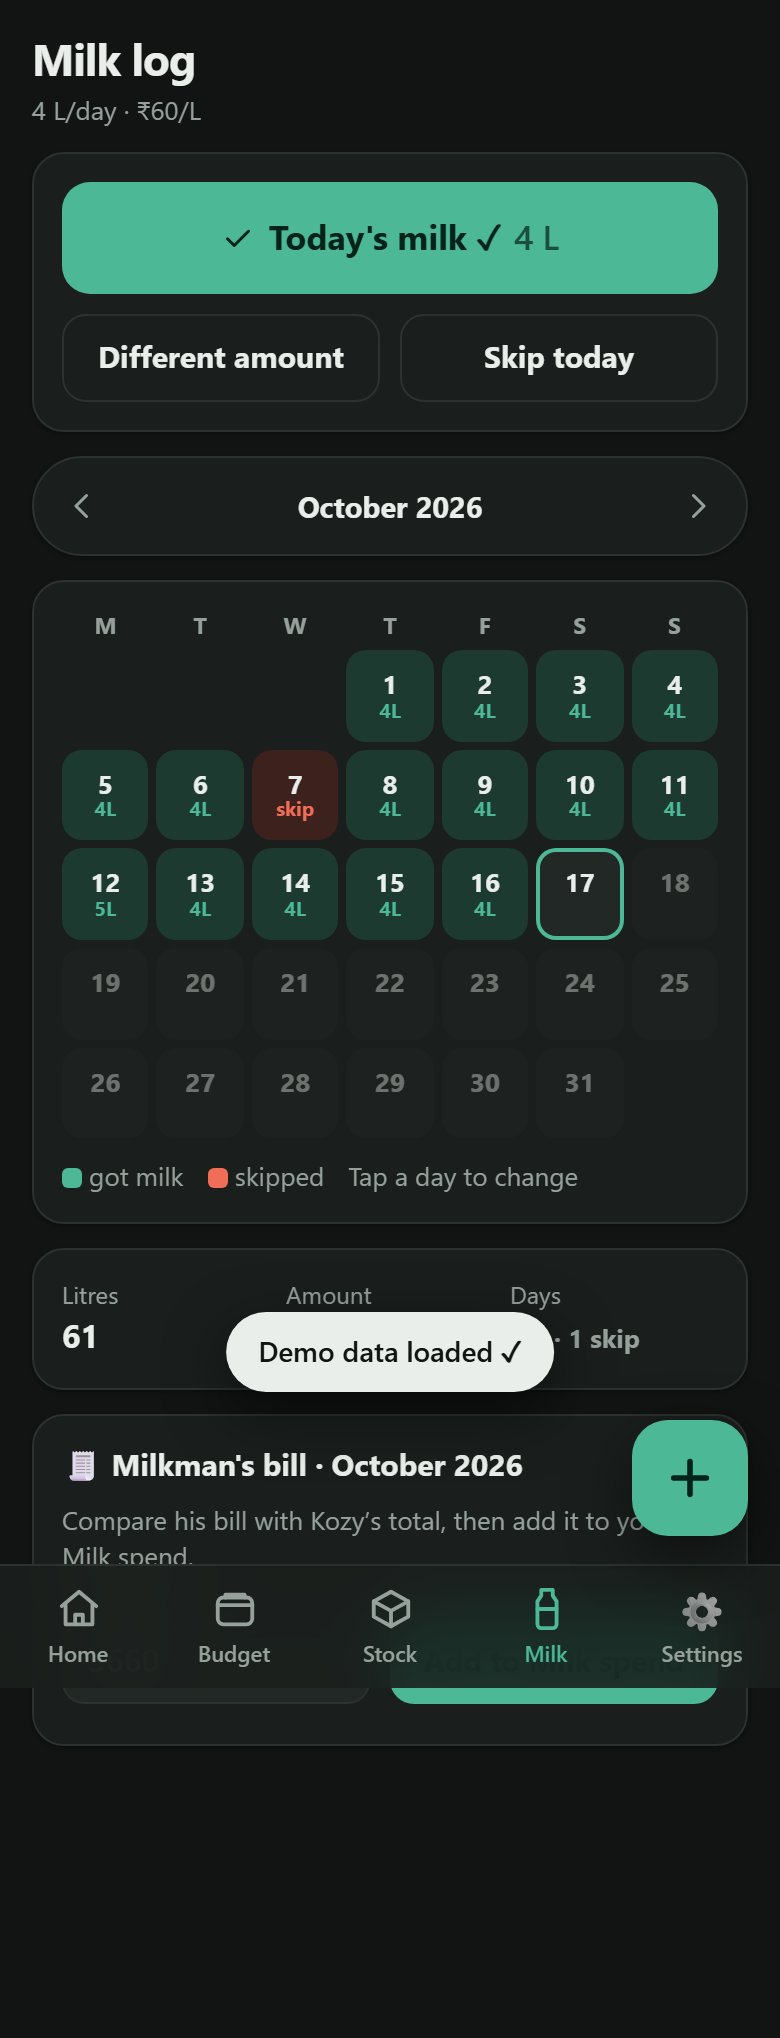
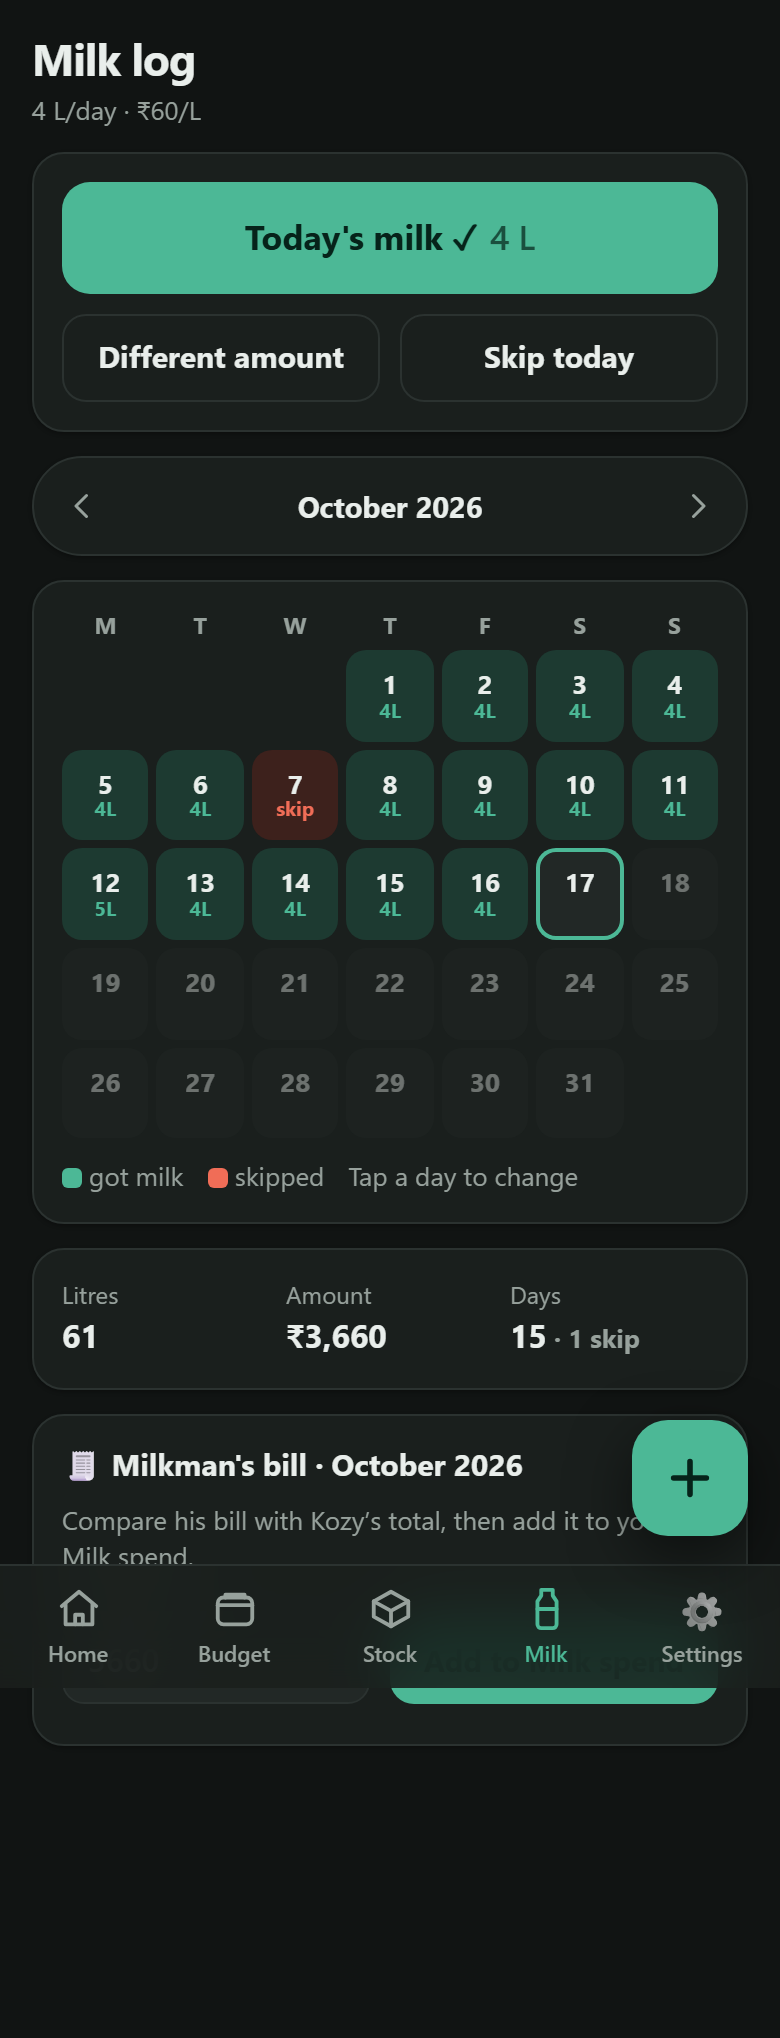
Polish stock sort + labels, friendlier Firebase errors, rules, decisions and morning report

Changed region(s): [[0.2769, 0.6183, 0.7077, 0.6801], [0.3077, 0.0927, 0.7077, 0.1237]]

diff --git a/js/views/stock.js b/js/views/stock.js
@@ -55,7 +55,9 @@ export function render() {
   const all = stock.allAnalyzed();
   const shop = stock.shoppingList();
   const counts = { all: all.length, low: all.filter((a) => a.status === 'low').length, finished: all.filter((a) => a.status === 'finished').length };
-  const shown = state.filter === 'all' ? all : all.filter((a) => a.status === state.filter);
+  const rank = { finished: 0, low: 1, ok: 2, none: 3 };
+  const shown = (state.filter === 'all' ? all : all.filter((a) => a.status === state.filter))
+    .sort((x, y) => rank[x.status] - rank[y.status]);
 
   return `
   ${header('Kitchen stock', `${counts.low} running low · ${counts.finished} finished`,
@@ -70,7 +72,7 @@ export function render() {
     </div>
     ${shop.length ? `<ul class="shop-list">${shop.map((a) => `<li data-shop="${a.item.id}">
         <span>${esc(a.item.en)} <span class="hi">/ ${esc(a.item.hi)}</span></span>
-        <span class="chip ${a.status === 'finished' ? 'over' : 'warn'}">${a.status === 'finished' ? 'Finished' : `${a.daysLeft}d left`}</span>
+        <span class="chip ${a.status === 'finished' ? 'over' : 'warn'}">${a.status === 'finished' ? 'Finished' : a.daysLeft === 0 ? 'Today' : `${a.daysLeft}d left`}</span>
       </li>`).join('')}</ul>` : '<p class="empty">Nothing to buy in the next 7 days 🎉</p>'}
   </section>
 

diff --git a/js/app.js b/js/app.js
@@ -66,7 +66,17 @@ async function start() {
 
 start().catch((e) => {
   console.error(e);
-  document.getElementById('view').innerHTML = `<div class="card"><h2>Kozy could not start</h2><p class="muted">${String(e?.message || e)}</p></div>`;
+  const denied = e?.code === 'permission-denied';
+  const msg = denied
+    ? 'This account cannot open the family data. Sign in with one of the two family emails. If you just made an email + password account, open the verify link in your inbox first, then reload.'
+    : String(e?.message || e);
+  document.getElementById('view').innerHTML = `<div class="card stack"><h2>Kozy could not start</h2><p class="muted">${msg.replace(/</g, '&lt;')}</p>
+    <button class="btn primary" onclick="location.reload()">Reload</button>
+    ${denied ? '<button class="btn ghost" id="kz-signout">Sign out</button>' : ''}</div>`;
+  document.getElementById('kz-signout')?.addEventListener('click', async () => {
+    await store.getAdapter()?.signOut?.();
+    location.reload();
+  });
 });
 
 if ('serviceWorker' in navigator && location.protocol !== 'file:') {

diff --git a/js/views/milk.js b/js/views/milk.js
@@ -63,7 +63,7 @@ export function render() {
         <div><p class="label">Today</p><p class="big2">${td.skip ? 'Skipped' : `✓ ${number(td.litres)} L`}</p></div>
         <button class="btn ghost small" data-act="edit-day" data-day="${t}">${icon('edit')} Change</button>
       </div>` : `
-      <button class="btn primary huge" data-act="tick">${icon('check')} Today's milk ✓ <span class="muted-ink">${number(s.litres)} L</span></button>
+      <button class="btn primary huge" data-act="tick">Today's milk ✓ <span class="muted-ink">${number(s.litres)} L</span></button>
       <div class="row gap">
         <button class="btn ghost grow" data-act="edit-day" data-day="${t}">Different amount</button>
         <button class="btn ghost grow" data-act="skip-today">Skip today</button>

diff --git a/js/logic/demo.js b/js/logic/demo.js
@@ -63,7 +63,7 @@ export function buildDemo(t = today()) {
       const date = d(day);
       const dow = parse(date).getDay();
       // Office travel on weekdays
-      if (dow >= 1 && dow <= 5) entry(date, 'travel', pick([320, 340, 360, 380]), pick(['Bus + auto', 'Auto', 'Bus to office']), pick(['UPI', 'Cash']));
+      if (dow >= 1 && dow <= 5) entry(date, 'travel', pick([180, 200, 220, 240]), pick(['Bus + auto', 'Auto', 'Bus to office']), pick(['UPI', 'Cash']));
       // Vegetables every ~2 days
       if (day % 2 === 0) entry(date, 'grocery', pick([120, 160, 180, 220, 260]), pick(['Sabzi', 'Sabzi + fruits', 'Tamatar, pyaz', 'Fruits']), pick(['UPI', 'Cash']));
       // Milk: 4 L most days, skip a couple, 5 L on a guest day

diff --git a/js/logic/stock.js b/js/logic/stock.js
@@ -115,7 +115,7 @@ export function shoppingList() {
 export function shoppingText(list = shoppingList()) {
   const lines = list.map((a) => {
     const last = a.lastBought ? ` (last: ${a.lastBought.qty} ${a.lastBought.unit || a.item.unit})` : '';
-    const why = a.status === 'finished' ? 'finished' : `~${a.daysLeft} days left`;
+    const why = a.status === 'finished' ? 'finished' : a.daysLeft === 0 ? 'runs out today' : `~${a.daysLeft} days left`;
     return `• ${a.item.en} / ${a.item.hi}${last} — ${why}`;
   });
   return `🛒 Kozy shopping list\n${lines.join('\n')}`;

diff --git a/tests/screenshots.spec.js b/tests/screenshots.spec.js
@@ -13,6 +13,7 @@ for (const scheme of ['light', 'dark']) {
     await page.locator('[data-act="demo"]').click();
     await page.locator('.sheet [data-yes]').click();
     await expect(page.locator('.screen-home')).toBeVisible();
+    await expect(page.locator('#toast.show')).toHaveCount(0, { timeout: 5000 });
     // Leave this month's gas bill pending so the recurring card shows on Home.
     await page.evaluate(async () => {
       const store = await import('/js/store.js');

diff --git a/js/adapters/firestore.js b/js/adapters/firestore.js
@@ -71,6 +71,8 @@ export class FirestoreAdapter {
 
   async createEmailAccount(email, password) {
     const res = await this.A.createUserWithEmailAndPassword(this.auth, email, password);
+    // firestore.rules only trusts verified emails, so send the verification mail right away.
+    await this.A.sendEmailVerification(res.user);
     this.user = res.user;
     return res.user;
   }

diff --git a/MORNING_REPORT.md b/MORNING_REPORT.md
@@ -1,0 +1,155 @@
+# ☀ Good morning — Kozy Phase 1 report
+
+**Short version:** Phase 1 is built and all **13 automated tests pass** ✅ (headless Chrome, iPhone size 390×844).
+It runs on your laptop in **local mode**. Firebase code is written but **OFF** and **not tested yet**, because it needs your real config.
+
+---
+
+## 0. Setup check 🧰
+
+| Tool | Status |
+|---|---|
+| Node.js | ✅ v24.19.0 |
+| npm | ✅ 11.17.0 |
+| git | ✅ 2.52.0 (repo created, branch `main`) |
+| gh (GitHub CLI) | ❌ **not installed**. That's fine: the GitHub steps below use the website. |
+| Playwright | ✅ 1.64.1 + Chromium (installed in this folder for tests) |
+| context-mode plugin | ✅ active, v1.0.169. `ctx-doctor`: everything OK, one warning (install Bun for more speed, optional) |
+| frontend-design skill | ❌ **not found** on this PC. I followed the design brief by hand (compact, mobile-first, light + dark). |
+| prompt-booster skill | ✅ available (CLAUDE.md tells future sessions to use it) |
+
+---
+
+## 1. What is done ✅ / not done ❌ / known bugs 🐞
+
+### ✅ Done (tested by the automated tests)
+- 🏠 **Home**: "Left this month", days left, safe daily spend, top 3 categories, last 5 spends, a milk tile and a shopping-list tile.
+- ➕ **Floating + button** on every screen: amount → category → UPI/Cash/Card → note → Add. Edit + delete by tapping any spend.
+- 💰 **Budget**: 12 categories with your limits. Bars turn **amber at ≥80%** and **red above 100%**. Tap a category to filter. Month ‹ › switcher.
+- 🔁 **Monthly bills** (Solar EMI, WiFi, Gas) appear on Home from the 1st: **Paid** (one tap), ✕ skip, or **Confirm all**.
+- 🏦 **Savings tracker** (Festival + Emergency running totals) and 💳 **Credit card due** (starts at ₹10,000, shows what's left).
+- 📊 **6-month bar chart** (plain SVG, no library) with a dashed budget line.
+- 📄 **Export month to CSV** (opens fine in Excel, including Hindi).
+- 🧺 **Kitchen stock**: all 17 items (English / हिंदी). Two big buttons: **Bought / खरीदा** and **Finished / ख़त्म**.
+  Kozy works out how long a pack lasts, use per week, run-out date and cost per month. Chips: In stock / Running low (≤7 days) / Finished.
+- 🛒 **Auto shopping list** (finished items + items running out within 7 days). **Share** (opens the share sheet → WhatsApp on iPhone) or **Copy**.
+- 🥬 Every **Bought** with a price is added to **Groceries + veg** automatically.
+- ➕ Add / edit / delete items (name EN + HI, unit, category). Tap an item's name to see its history.
+- 🥛 **Milk log**: asks for L/day + ₹/L the first time (defaults 4 L, ₹60). **"Today's milk ✓"** in one tap, or a different amount, or skip.
+  Month calendar, total litres + ₹, and **add the milkman's bill to Milk spend** (shows the difference from Kozy's total).
+- ⚙ **Settings**: limits, add/delete categories, monthly bills, card due, milk defaults, items, **Load demo data**, **Reset all** (with confirm), **Backup / Restore JSON**.
+- 👤 Every entry shows **who added it** ("Me" in local mode).
+- 📱 **PWA**: manifest, icons (house + ₹ coin logo), iPhone home-screen icon, and **works offline** (tested: page reloads with no internet).
+- 🌗 Light + dark mode follow the system. ₹ shows in Indian format (₹40,000).
+- 🔥 **FirestoreAdapter** fully written (Google + Email/Password sign-in, live sync between phones, offline cache). It stays OFF until `USE_FIREBASE = true`.
+- 🔒 **firestore.rules**: only your 2 emails, which must also be verified.
+- 📸 **Screenshots** of every screen, light + dark, are in [`screenshots/`](screenshots/).
+
+### ❌ Not done / not tested
+- 🔥 **Firebase mode has NOT been run** (no real config yet). The code is written carefully, but treat it as untested until you try it this morning.
+- 📱 **Not tested on a real iPhone** yet, only in iPhone-sized headless Chrome. Check Share → WhatsApp and Add to Home Screen on the phone.
+- 🚀 Not deployed (you said no deploy tonight).
+- Phase 2 (medicines, home items, bill scan) is not started, as planned.
+
+### 🐞 Known bugs / limits
+- In **Settings**, each card has its own Save button. If you edit two cards and press only one Save, the other card's unsaved edits are lost.
+- **Local mode data lives only in this browser.** Laptop data does **not** reach the phone by itself. Use Backup → Restore, or switch to Firebase.
+- If you make a **new email + password account**, you must click the verify link in your email before the data opens. Kozy shows a clear message if you don't. **Google sign-in avoids this step.**
+- In the full-page screenshots, the bottom tab bar appears in the middle of the image. That is how full-page screenshots draw fixed bars, not an app bug.
+
+---
+
+## 2. How to run on the laptop 💻
+
+```bash
+cd "C:\Users\Arti\Downloads\Claude\Kozy"
+```
+```bash
+npm start
+```
+Then open 👉 **http://localhost:5173**
+
+To run the tests again (about 35 seconds):
+```bash
+npm test
+```
+
+Tip 🧪: add `?today=2026-11-01` to the URL to pretend it's the 1st and see the monthly bills card:
+http://localhost:5173/?today=2026-11-01
+
+---
+
+## 3. Your 5-minute test checklist ✅
+
+1. ⚙ Settings → **Load demo data** → Load demo. Home now shows about ₹13,700 left (it changes a little with the date), the safe daily spend and the last 5 spends.
+2. ➕ Tap **+** → type `120` → tap **Groceries + veg** → **Add spend**. "Left this month" drops by ₹120.
+3. 💰 **Budget** tab: find an **amber** bar and a **red** bar (Home misc is over its limit in the demo). Tap one to filter. Tap **CSV** and open the file.
+4. 🧺 **Stock** tab: Besan / Poha show **Finished**, and a couple of items (tonight: Rice, Detergent) show **Running low**. Tap **Share** on the shopping list. Tap **Bought** on Besan → 1 kg, ₹95 → Save. Besan leaves the list and ₹95 appears in Groceries.
+5. 🥛 **Milk** tab: tap **Today's milk ✓**. Tap a past day → change litres → Save. Check the litres and ₹ total. Type the milkman's bill → **Add to Milk spend**.
+6. ✈ Turn off Wi-Fi → reload the page → Kozy still opens.
+7. ⚙ **Reset all data** when you're done testing, so you start clean.
+
+---
+
+## 4. Morning Firebase steps 🔥 (simple clicks)
+
+> First, **backup** any laptop test data you want to keep (Settings → Backup JSON).
+
+1. Open **https://console.firebase.google.com** → click project **kozy**.
+2. **Sign-in**: left menu **Build → Authentication → Get started** → tab **Sign-in method**:
+   - Click **Google** → toggle **Enable** → pick your support email → **Save**.
+   - Click **Add new provider → Email/Password** → toggle **Enable** → **Save**.
+3. **Database**: **Build → Firestore Database → Create database** → location **asia-south2 (Delhi)** → **Start in production mode** → **Create**.
+4. **Web app**: ⚙ (top-left) **Project settings → General** → scroll to **Your apps** → click the **`</>`** (Web) icon → nickname `kozy-web` → leave Hosting **unticked** → **Register app**.
+   Copy the values inside `firebaseConfig = { ... }`.
+5. Paste those values into **`js/firebase-config.js`** (replace the `PASTE_...` lines; also check `projectId`).
+6. Open **`firestore.rules`** → replace `ME_EMAIL` and `WIFE_EMAIL` with your two Gmail addresses (keep the quotes).
+7. **Deploy the rules (no CLI needed)**: Firestore Database → tab **Rules** → delete everything → paste the whole `firestore.rules` file → **Publish**.
+8. Open **`js/config.js`**:
+   - `USE_FIREBASE = true`
+   - In `MEMBERS`, replace `'ME_EMAIL'` and `'WIFE_EMAIL'` with the same two emails (this sets the "Me" / "Wife" labels).
+9. `npm start` → http://localhost:5173 → **Continue with Google** → sign in.
+   Want your laptop data in the cloud? Settings → **Restore** → pick the backup JSON.
+10. Ask Claude: *"continue from CLAUDE.md — Firebase is on, test it"* if anything breaks.
+
+---
+
+## 5. Later: GitHub Pages deploy 🚀 (repo `krrivats/kozy`)
+
+1. On **github.com** → **New repository** → name `kozy` → **Public** (free GitHub Pages needs public) → do **not** add a README → **Create**.
+2. In this folder:
+   ```bash
+   git remote add origin https://github.com/krrivats/kozy.git
+   ```
+   ```bash
+   git push -u origin main
+   ```
+3. Repo → **Settings → Pages** → Source: **Deploy from a branch** → Branch **main**, folder **/ (root)** → **Save**. Wait 1–2 minutes.
+4. Your app: 👉 **https://krrivats.github.io/kozy/**
+5. Firebase → **Authentication → Settings → Authorized domains → Add domain** → `krrivats.github.io`.
+6. On each iPhone: open the link in **Safari** → **Share** → **Add to Home Screen** → **Add**. 📱
+7. When you change code later, bump `VERSION` in `sw.js` so old cached files are cleaned up.
+
+> The Firebase `apiKey` being public in the repo is normal. Your data is protected by `firestore.rules`, not by hiding the key.
+
+---
+
+## 6. Decisions I made on my own 🤔
+23 small choices, listed with reasons in 👉 [DECISIONS.md](DECISIONS.md).
+The big ones: the total budget = the sum of the category limits, items never bought show "Not tracked", monthly bills stay on Home until you tap Paid or skip, and the Firebase rules require a verified email.
+
+---
+
+## 7. context-mode savings 💾
+From `ctx-stats` at the end of the build:
+- This session: **~1.4 MB of tool output kept out of context**, and only ~3.3 KB came in (**99.8% saved**, ~371K tokens).
+- Across all your projects so far: 411 KB kept out.
+
+---
+
+## 📁 Where things are
+- App: `index.html`, `css/app.css`, `js/` (store + adapters, logic, views)
+- PWA: `manifest.webmanifest`, `sw.js`, `icons/`
+- Firebase: `js/firebase-config.js`, `firestore.rules`, `firebase.json`
+- Tests: `tests/` · Screenshots: `screenshots/`
+- Rules for future Claude sessions: `CLAUDE.md` · Plan: `PLAN.md`

diff --git a/DECISIONS.md b/DECISIONS.md
@@ -1,0 +1,29 @@
+# Decisions I made on my own 🤔
+
+These are things your brief didn't spell out. In each case I picked the simplest sensible option.
+
+| # | Decision | Why |
+|---|---|---|
+| 1 | **Total budget = the sum of the category limits** (₹40,000 with your numbers). There is no separate "salary" field. | Your 12 limits already add up to exactly ₹40,000. One number to keep right, not two. |
+| 2 | **Local storage = localStorage** (one JSON blob), not IndexedDB. | A year of data is only a few hundred KB. localStorage is simpler and has no async edge cases. |
+| 3 | **My own tiny server** (`tools/server.mjs`, run with `npm start`) instead of `npx serve`. | No downloads, works offline, and the content types are right for the manifest + service worker. `npx serve` also works if you prefer it. |
+| 4 | **Service worker is "network first, cache as fallback".** | You always get the newest code when online, and the app still opens offline. |
+| 5 | **Recurring bills (Solar EMI, WiFi, Gas) show on Home from the 1st until you tap Paid or ✕ skip**, not only on the 1st. | If you don't open the app on the 1st, the reminder is still there on the 3rd. |
+| 6 | **Items you have never tapped "Bought" on get a grey "Not tracked" chip** and stay off the shopping list. | On day one, Kozy knows nothing about your kitchen. Calling everything "Finished" would make a 17-item shopping list. |
+| 7 | **Prediction maths**: a "pack" = one Bought followed by the next Finished. Daily use = qty ÷ days, averaged over packs. Run-out = date bought + (qty now ÷ daily use). Running low = 7 days or fewer left. Buying again before Finished counts as a top-up. | It is the simplest model that only needs your two buttons. |
+| 8 | **Monthly cost per item** = average (price ÷ days the pack lasted) × 30. With no finished pack yet, it is what you spent on that item in the last 30 days. | It needs no extra input from you. |
+| 9 | **A Bought with no price adds no spend.** A Bought with a price adds a spend in Groceries + veg, mode UPI. Deleting the stock record also deletes that spend. | It avoids ₹0 entries, and the budget and stock never disagree. |
+| 10 | **The milk rate is saved on each day.** Changing ₹/litre later does not change old days. | Old months stay matching the bills you already paid. |
+| 11 | **Milk bill** = one spend per month in Milk (mode Cash). Pressing "Add" again updates that same spend instead of adding a second one. | No double-counting. |
+| 12 | **Savings tracker and credit card tracker count ALL months**, not just this month. | "Running total" and "remaining due" only make sense over all time. |
+| 13 | **Credit card remaining = starting due (₹10,000, editable) − everything in the Credit card payoff category.** | Every payoff spend lowers what's left. Nothing extra to enter. |
+| 14 | **Demo data covers 3 months** ending today, and **replaces** your current data (after a confirm). | It gives the history chart and the predictions something to show. Mixing demo data with real data would be confusing. |
+| 15 | **Testing helper: `?today=YYYY-MM-DD`** in the URL makes the app pretend it is that date (for example `http://localhost:5173/?today=2026-11-01` shows the recurring bills). | The tests use it. It is handy for you too. Normal use never needs it. |
+| 16 | **Firestore layout**: `households/kozy-home` is the ONE shared household document. Spends, items, stock, milk and settings live in sub-collections under it. | The household is still one document, and each spend saves on its own, so the two phones never overwrite each other's changes. |
+| 17 | **Firestore rules require a verified email**, not just the email address. | Without this, anyone could make an email/password account using *your* address and read the data. Google sign-in emails are already verified. The app sends the verification mail when an email account is created. |
+| 18 | **Google sign-in uses a redirect when Kozy runs as a home-screen app**, and a popup in a normal browser. | Popups often break inside an iPhone home-screen app. |
+| 19 | **Firebase SDK version 10.12.2** from gstatic CDN. | A stable modular build. |
+| 20 | **Who added**: local mode always shows "Me". In Firebase mode, the `MEMBERS` map in `config.js` turns each email into "Me" or "Wife". The demo data mixes Me and Wife so you can see how it looks. | You asked for it. It is set in one place. |
+| 21 | **Settings tab icon is the ⚙ emoji**; the other tabs use line icons. | You asked for ⚙ specifically. |
+| 22 | **System font** (SF Pro on iPhone), not a web font. | It is fast and works offline. It also shows Hindi well on iPhone. |
+| 23 | **Light/dark follows the phone's setting** (no toggle). | Your brief said "follow system". |

diff --git a/CLAUDE.md b/CLAUDE.md
@@ -31,7 +31,9 @@ Plain HTML + CSS + vanilla JS (ES modules). No build step. Must run on GitHub Pa
 
 ## Progress
 - [x] Phase 0 — setup, git, CLAUDE.md, PLAN.md
-- [x] Phase 1 — budget, stock, milk, settings, PWA, tests, local mode
+- [x] Phase 1 — budget, stock, milk, settings, PWA, tests, local mode (13/13 Playwright tests pass, 2026-10-17)
+  - FirestoreAdapter + login written but NOT run yet (no real config). Not tested on a real iPhone yet.
+  - See MORNING_REPORT.md (status + steps) and DECISIONS.md (choices made alone).
 - [ ] Phase 1b — user pastes Firebase config, switch `USE_FIREBASE = true`, test with 2 phones
 - [ ] Phase 1c — GitHub Pages deploy (repo krrivats/kozy)
 - [ ] Phase 2 — medicines with expiry, home items (plumbing/electrical/utensils), bill photo scan with AI
